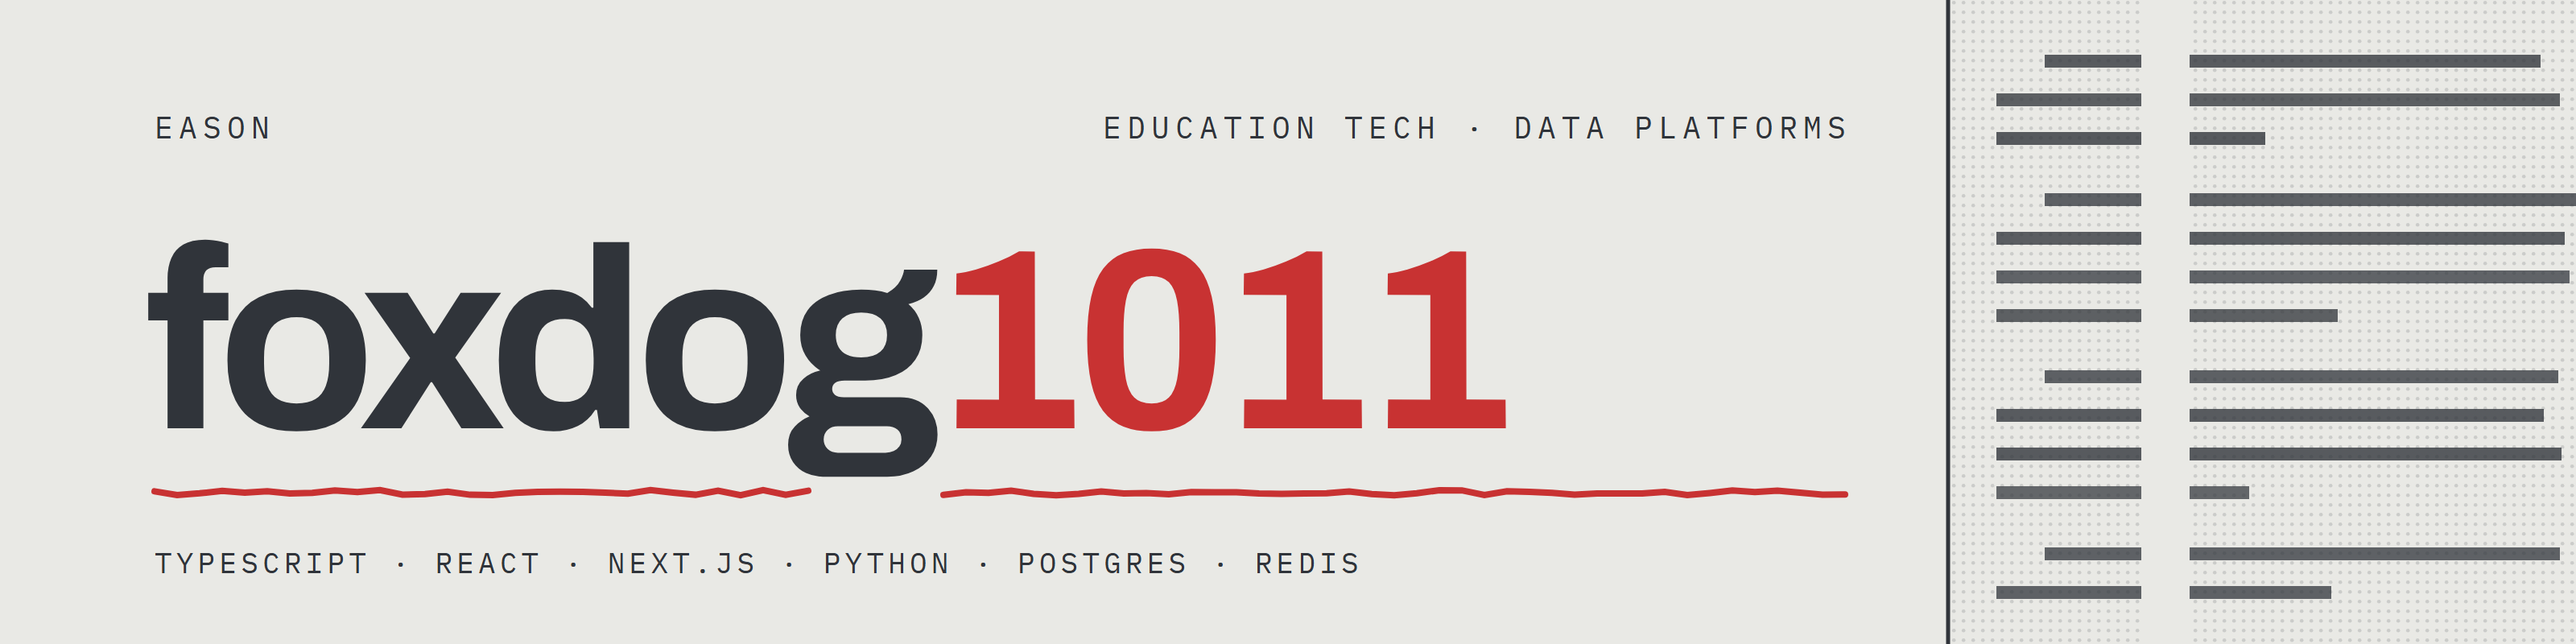
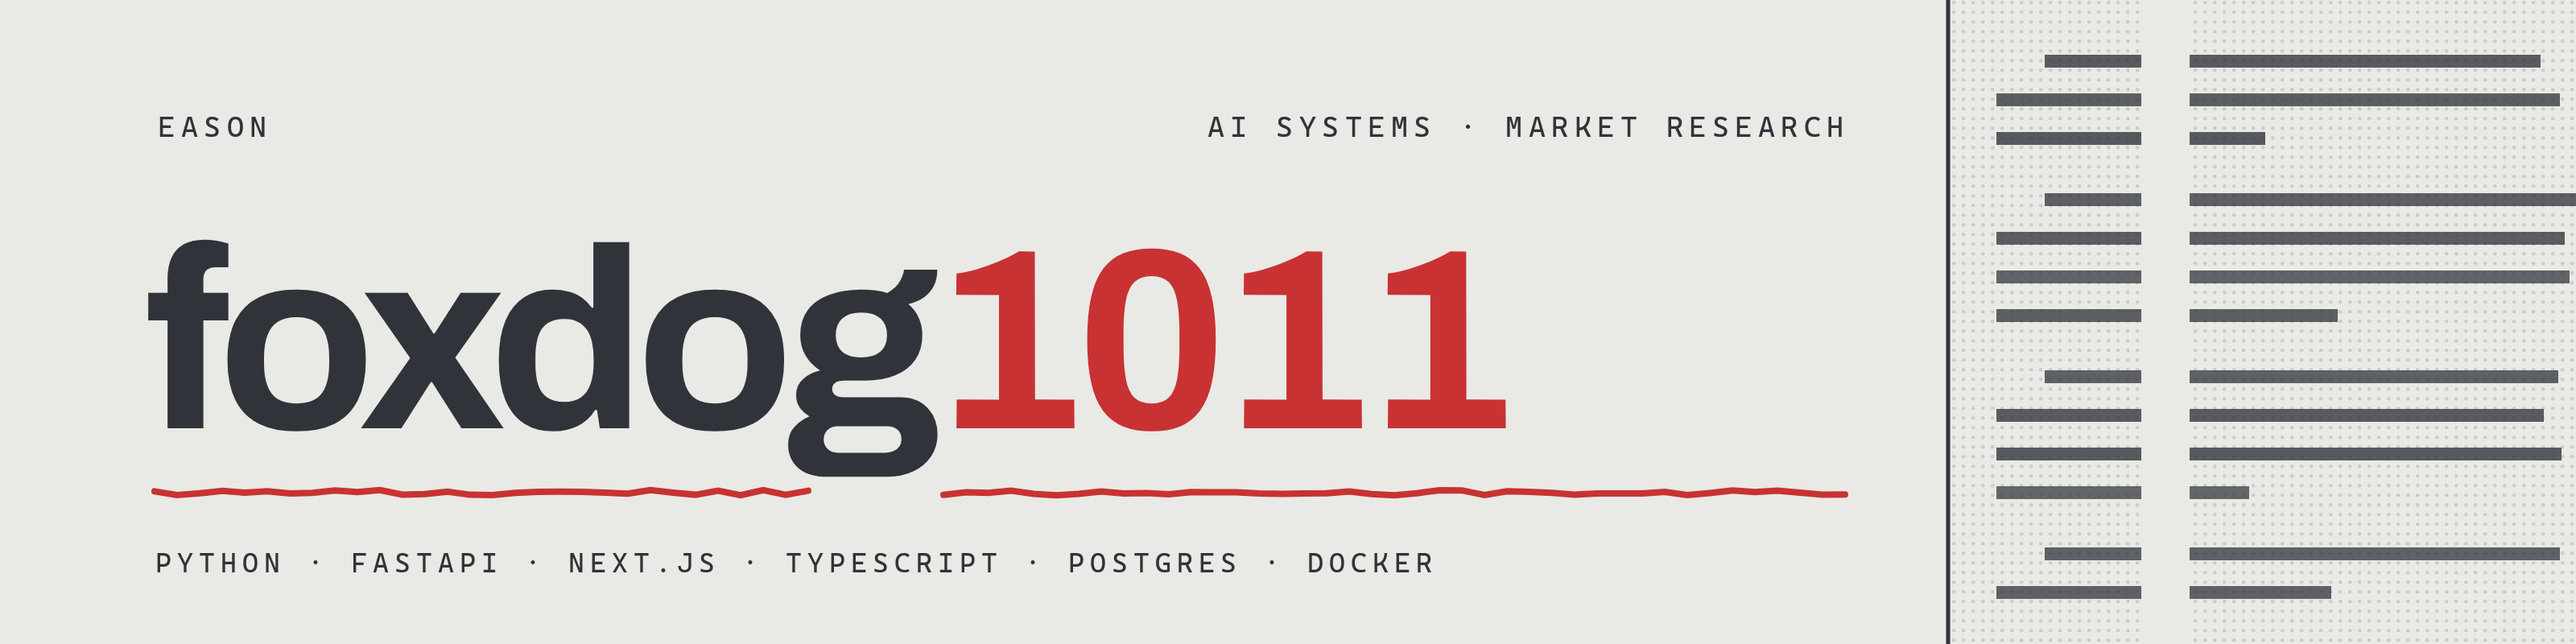
docs: refresh profile landing page for 2026-09 job search
Reposition from "education tech / data platforms" to "AI systems and
market research" so the page reads for the equity research, solutions
engineering, and consulting roles currently in play (UBS, Morgan
Stanley, Cisco, IBM).

- IELTS section renamed to Lumi; URL moved from the retired Vercel
  host to lumi.integratewise.com and linked to the public case study
- Retire the stale XGBoost / MAE 0.570 claim; replace with the
  official-sample Spearman 0.78-0.83 benchmark and noise-floor story
- Drop the placeholder KeepInMind entry
- Add a verified snapshot table (2026-08-31 counts) and updated stack
- Fix LinkedIn slug to easonlin10 and add email
- Re-render banner labels to match the new positioning and stack

Claude-Session: https://claude.ai/code/session_01MicrBxVEaRH4JiukhARgWg

Changed region(s): [[0.0625, 0.8438, 0.5625, 0.9062], [0.4375, 0.1562, 0.7188, 0.2188], [0.0625, 0.1875, 0.125, 0.2188]]

diff --git a/README.md b/README.md
@@ -1,46 +1,72 @@
-<img src="banner.png" alt="foxdog1011 — education tech and data platforms" width="100%">
+<img src="banner.png" alt="foxdog1011 — AI systems and market research" width="100%">
 
-# Hi, I'm Eason
+# Hi, I'm Eason 林煜霖
 
-Full-stack developer with a Master's in Information Management from National Central University (NCU). I build AI-powered web applications with a focus on education technology and data-driven platforms.
+I build and **operate** production AI and data systems end-to-end, then use them for real work: a Taiwan-equity research platform that publishes market briefings every trading day, and an IELTS assessment product with real learners. M.S. in Information Management, National Central University (2025).
 
----
+The same discipline runs through both: measure the noise before claiming a gain, surface silent failures, and keep the system honest when nobody is watching.
 
-## Tech Stack
-
-![TypeScript](https://img.shields.io/badge/TypeScript-3178C6?style=flat&logo=typescript&logoColor=white)
-![React](https://img.shields.io/badge/React-61DAFB?style=flat&logo=react&logoColor=black)
-![Next.js](https://img.shields.io/badge/Next.js-000000?style=flat&logo=nextdotjs&logoColor=white)
-![Python](https://img.shields.io/badge/Python-3776AB?style=flat&logo=python&logoColor=white)
-![Node.js](https://img.shields.io/badge/Node.js-339933?style=flat&logo=nodedotjs&logoColor=white)
-![TailwindCSS](https://img.shields.io/badge/Tailwind_CSS-06B6D4?style=flat&logo=tailwindcss&logoColor=white)
-![PostgreSQL](https://img.shields.io/badge/PostgreSQL-4169E1?style=flat&logo=postgresql&logoColor=white)
-![Redis](https://img.shields.io/badge/Redis-DC382D?style=flat&logo=redis&logoColor=white)
-![Vercel](https://img.shields.io/badge/Vercel-000000?style=flat&logo=vercel&logoColor=white)
+Currently looking at roles where systems thinking meets communication — equity research, solutions engineering, and technical consulting.
 
 ---
 
 ## Featured Projects
 
-### Stock Ledger
+### Stock Ledger — Taiwan-equity decision system
 
-An independently built and operated Taiwan-equity decision system spanning
-point-in-time market data, private portfolio analytics, sourced research,
-production monitoring, and an autonomous publishing pipeline.
+Independently built and operated. Point-in-time market data, chip-flow (籌碼) and institutional analytics, supply-chain research, rule-based entry/exit checks, and an autonomous research-to-video pipeline that publishes to YouTube unattended.
 
 **[Engineering case study](https://foxdog1011.github.io/stock-ledger-showcase/)** ·
 **[Production app](https://covenest.systems)** *(login required)* ·
 **[YouTube output](https://www.youtube.com/channel/UC-TJSNbjSGP4c447hPjYLow)**
 
-### IELTS AI Platform
+- 77 scheduled jobs running at 90.9% success over 1,400 executions, each audited with rate-limited Discord alerts and an external dead-man switch.
+- Video pipeline: market data → LLM script with grounding checks → quality gates → word-level captions → Remotion render → upload. Over 900 videos published without manual steps.
+- Lifted median video views 11.4× (non-overlapping ranges) through measured A/B title experiments and a Thompson Sampling upload scheduler.
+- Found Docker's iptables rules exposing 7 services while the firewall reported 3 open ports. Rebound everything behind a single Caddy ingress and added a guard test that caught 3 more live holes the day it was written.
 
-A full-stack AI coaching platform for IELTS Writing and Speaking preparation. Features dual-engine scoring (GPT-4o + XGBoost), multi-agent study planning, FSRS spaced repetition, and gamification mechanics. Achieved MAE 0.570 on a 50-essay benchmark.
+### Lumi — AI IELTS assessment and coaching
 
-**Live demo:** [ielts-ai-platform-web.vercel.app](https://ielts-ai-platform-web.vercel.app)
+A longitudinal IELTS learning system rather than a one-shot band-score generator. Writing and Speaking assessment with rubric-level evidence, deterministic coaching, and a verified learning loop where mastery only updates after repeated evidence on new prompts.
 
-### KeepInMind
+**[Live product](https://lumi.integratewise.com)** ·
+**[Engineering case study](https://github.com/foxdog1011/ielts-ai-platform-demo)**
 
-Personal knowledge management and retention tool. More details coming soon.
+- 180 registered learners and 640+ scored submissions at roughly $0.01 average AI cost per score.
+- Writing scorer benchmarked against 26 official IELTS examiner-scored samples: Spearman 0.78–0.83, approaching certified-examiner inter-rater agreement. The earlier eval set turned out to be synthetic, so it was rebuilt from official sources and the old accuracy claim was retracted.
+- Cut Speaking scoring MAE from 0.80 to 0.50 bands by fusing ASR word timing, a self-hosted acoustic service (faster-whisper + Praat), and an audio-LLM judge, with fail-open degradation.
+- Measured the eval harness's own noise floor (±0.011 Spearman across identical runs) and reject any prompt change whose gain falls inside it.
+
+*Also running: a private multi-persona agent framework that handles the daily operations around both products.*
+
+---
+
+## Verified Snapshot
+
+| | Stock Ledger | Lumi |
+|---|---:|---:|
+| API operations | 551 | 92 |
+| Automated tests | 2,969 test functions | 1,289 test cases |
+| Scheduled jobs | 77 (90.9% success) | — |
+| Reach | 924 videos · 263K views | 180 users · 642 submissions |
+
+*Repository and YouTube Data API snapshot, 2026-08-31. Public counts change after publication.*
+
+---
+
+## Tech Stack
+
+![Python](https://img.shields.io/badge/Python-3776AB?style=flat&logo=python&logoColor=white)
+![FastAPI](https://img.shields.io/badge/FastAPI-009688?style=flat&logo=fastapi&logoColor=white)
+![TypeScript](https://img.shields.io/badge/TypeScript-3178C6?style=flat&logo=typescript&logoColor=white)
+![Next.js](https://img.shields.io/badge/Next.js-000000?style=flat&logo=nextdotjs&logoColor=white)
+![React](https://img.shields.io/badge/React-61DAFB?style=flat&logo=react&logoColor=black)
+![PostgreSQL](https://img.shields.io/badge/PostgreSQL-4169E1?style=flat&logo=postgresql&logoColor=white)
+![Supabase](https://img.shields.io/badge/Supabase-3FCF8E?style=flat&logo=supabase&logoColor=white)
+![Docker](https://img.shields.io/badge/Docker-2496ED?style=flat&logo=docker&logoColor=white)
+![OpenAI](https://img.shields.io/badge/OpenAI-412991?style=flat&logo=openai&logoColor=white)
+![Claude](https://img.shields.io/badge/Claude-D97757?style=flat&logo=anthropic&logoColor=white)
+![GitHub Actions](https://img.shields.io/badge/GitHub_Actions-2088FF?style=flat&logo=githubactions&logoColor=white)
 
 ---
 
@@ -55,5 +81,6 @@ Personal knowledge management and retention tool. More details coming soon.
 
 ## Contact
 
-- **LinkedIn:** [linkedin.com/in/foxdog1011](https://www.linkedin.com/in/foxdog1011)
+- **LinkedIn:** [linkedin.com/in/easonlin10](https://www.linkedin.com/in/easonlin10)
+- **Email:** eason4522@gmail.com
 - **GitHub:** [github.com/foxdog1011](https://github.com/foxdog1011)
